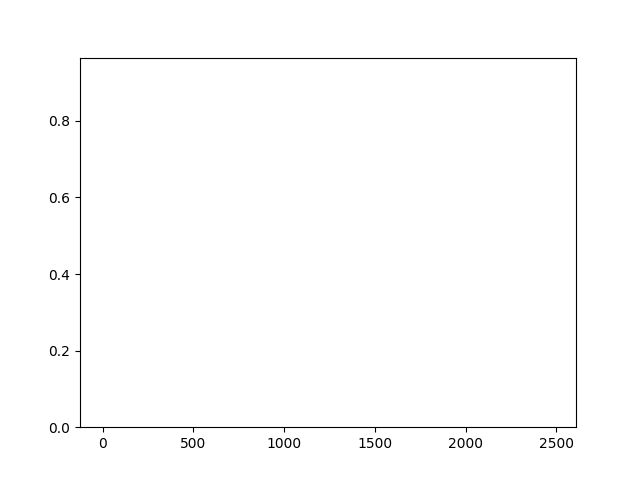
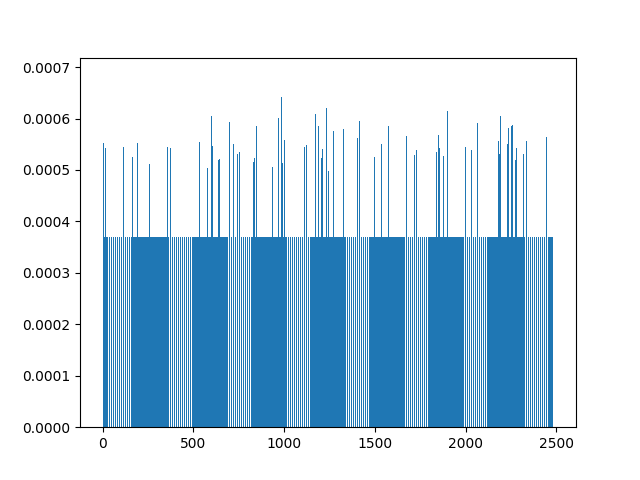
moving to cpu

diff --git a/mcts.py b/mcts.py
@@ -7,6 +7,7 @@ import matplotlib.pyplot as plt
 import matplotlib.animation as animation
 import os
 import torch
+from scipy.special import softmax
 
 
 unvisited_reward = 0
@@ -69,12 +70,12 @@ class MCTS:
 #        else:
 #            print((tree_node.cumulative_reward / tree_node.visits) , c*np.sqrt(tree_node.parent.visits / tree_node.visits))
         return tree_node.value + c*tree_node.prior*np.sqrt(tree_node.parent.visits / (1+tree_node.visits))
-        return tree_node.prior
+#        return tree_node.prior
 
 
     def selection(self, tree_node, policy):
 #        print('Selection...')
-        explore = np.random.choice([True, False], p=[0.1, 0.9])
+        explore = np.random.choice([True, False], p=[0.5, 0.5])
         if explore:
             action, new_child = self.expansion(tree_node, policy)
             return new_child
@@ -108,8 +109,9 @@ class MCTS:
             if i not in state_events:
                 masked_policy[i] = 0
 
-        masked_policy_norm = masked_policy / np.sum(masked_policy)
-        action = np.random.choice(range(len(masked_policy)), p=masked_policy_norm)
+#        masked_policy_norm = masked_policy / np.sum(masked_policy)
+        policy_as_probs = softmax(masked_policy)
+        action = np.random.choice(range(len(masked_policy)), p=policy_as_probs)
         new_child_events = [e for e in state_events if e != action]
         new_child = treeNode(events=new_child_events, children=[], parent=tree_node, prior=masked_policy[action])
 
@@ -313,11 +315,11 @@ class MCTS:
             # Actions that don't exist keep a score of 0
             probabilities[removed_event_timestamp, removed_event_node_index, :] = child_score
 
-        probabilities = probabilities.flatten()
+        probabilities = softmax(probabilities.flatten())
         # Currently a lower score is a more favourable node, so need to inverse this to imply probability.
         # Subtract all values from the max value to inverse the probabilities.
 #        probabilities = [np.max(probabilities) - x if x != 0 else 0 for x in probabilities ]
-        probabilities = np.exp(probabilities) / np.sum(np.exp(probabilities))
+#        probabilities = np.exp(probabilities) / np.sum(np.exp(probabilities))
 
         return probabilities
 
@@ -327,7 +329,7 @@ class MCTS:
         else:
             return False
 
-    def search(self, state, num_searches=100):
+    def search(self, state, num_searches=1000):
         '''
         Args:
             state: np.array of shape (input_window, num_nodes, feature_dim)
@@ -351,7 +353,7 @@ class MCTS:
                 policy = policy.cpu().detach().numpy()[0]
 #                print(np.unique(policy, return_counts=True))
                 current_node = self.selection(current_node, policy)
-                path.append(current_node.node_id)
+#                path.append(current_node.node_id)
 
 
             # Every 10th iteration, force a real simulated reward to propogate back up the tree.
@@ -367,9 +369,9 @@ class MCTS:
 #                print(np.unique(policy, return_counts=True))
 #                print(policy)
                 _, current_node = self.expansion(current_node, policy)
-                if i%10 == 0:
-#                    print('Simulation...')
-                    reward, _ = self.simulation(current_node)
+#                if i%10 == 0:
+##                    print('Simulation...')
+#                    reward, _ = self.simulation(current_node)
 #            ancestors = self.find_all_ancestors(exp_events)
             else:
                 exp_events = [self.all_event_graph_nodes[e] for e in current_node.events]
@@ -380,10 +382,10 @@ class MCTS:
                     exp_subgraph = [self.all_event_graph_nodes[e] for e in self.best_exp]
                     with open(self.results_dir+'best_exp.pck', 'wb') as f:
                         pck.dump(exp_subgraph , f)
-            ancestors = self.find_all_ancestors(current_node.events)
-#            ancestors = [current_node]
+#            ancestors = self.find_all_ancestors(current_node.events)
+            ancestors = [current_node]
             self.backpropagate(reward, ancestors, iteration=i)
-            all_paths.append(path)
+#            all_paths.append(path)
 #            self.visualise_exp_evolution(all_paths)
 #            with open(self.results_dir+'all_paths.pck', 'wb') as f:
 #                pck.dump(all_paths, f)

diff --git a/alpha_zero_model.py b/alpha_zero_model.py
@@ -25,7 +25,7 @@ class AlphaZero:
         self.model = model
         self.device = device
         self.explainer = explainer
-        self.mcts = MCTS(self.explainer, self.model)
+#        self.mcts = MCTS(self.explainer, self.model)
 
 
     def self_play(self, ):
@@ -33,13 +33,18 @@ class AlphaZero:
         action_probs_ys = []
         vals_ys = []
 
-        current_node = self.mcts.root
         all_paths = []
-        for i in tqdm(range(10)):
+
+        # Resest the tree before self play. avoids magnifying random biases
+        self.mcts = MCTS(self.explainer, self.model)
+        current_node = self.mcts.root
+
+        for i in tqdm(range(3)):
             action_probs, reward, paths = self.mcts.search(current_node)
 #            [all_paths.append(p) for p in paths]
             plt.bar(range(len(action_probs)), action_probs)
             plt.savefig('results/METR_LA/action_probs.png')
+            plt.close()
 
 #            self.mcts.visualise_exp_evolution(all_paths)
 
@@ -112,8 +117,8 @@ class PolicyModel(nn.Module):
 
         self.resBlock1 = ResBlock(self.num_hidden)
         self.resBlock2 = ResBlock(self.num_hidden)
-        self.resBlock3 = ResBlock(self.num_hidden)
-        self.resBlock4 = ResBlock(self.num_hidden)
+#        self.resBlock3 = ResBlock(self.num_hidden)
+#        self.resBlock4 = ResBlock(self.num_hidden)
 
         self.policyHead = nn.Sequential(
             nn.Conv3d(in_channels=self.num_hidden,
@@ -124,6 +129,7 @@ class PolicyModel(nn.Module):
             nn.ReLU(),
             nn.Flatten(),
             nn.Linear(self.input_window*self.num_nodes, self.input_window*self.num_nodes),
+            nn.ReLU(),
             nn.Softmax(dim=1)
 #            nn.Unflatten(1, (self.input_window, self.num_nodes, 1))
         )
@@ -136,15 +142,16 @@ class PolicyModel(nn.Module):
             nn.BatchNorm3d(1),
             nn.ReLU(),
             nn.Flatten(),
-            nn.Linear(self.input_window*self.num_nodes, 1)
+            nn.Linear(self.input_window*self.num_nodes, 1),
+            nn.ReLU(),
         )
 
     def forward(self, x):
         x = self.startBlock(x)
         x = self.resBlock1(x)
         x = self.resBlock2(x)
-        x = self.resBlock3(x)
-        x = self.resBlock4(x)
+#        x = self.resBlock3(x)
+#        x = self.resBlock4(x)
         policy = self.policyHead(x)
         value = self.valueHead(x)
         return policy, value

diff --git a/explainer.py b/explainer.py
@@ -192,7 +192,7 @@ class Explainer:
 #        else:
         fidelity =  (explanation_error - non_explanation_error).float().detach().numpy()
 ##        print(explanation_error, non_explanation_error, fidelity)
-        return fidelity
+        return abs(fidelity)
 
 
     def make_prediction_from_masked_input(self, masked_input, batch):
